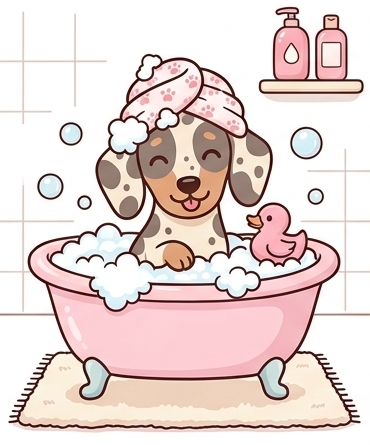
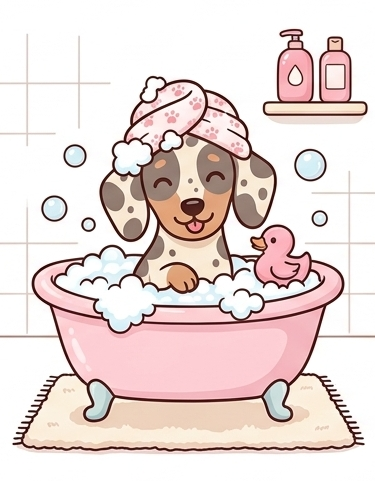
-FINALIZANDO CARDS

diff --git a/style.css b/style.css
@@ -120,18 +120,44 @@ footer {
 .img-dog {
     display: block;
     width: 60%;
+    max-width: 800px;
     height: 450px;
     object-fit: cover;
     margin: 80px auto 0 auto;
     border-radius: 15px;
 }
 
+.servicos{
+  padding: 10px 0 100px 0;
+}
+
+.h2-servicos{
+  font-weight: 500;
+}
+
+.preco{
+
+}
+
 .lista-servicos{
-    width: 240px;
+    width: 250px;
+    display: block;
+    text-decoration: none;
+    color: #1F2833;
+    border: 2px solid;
+    margin: 0 60px;
+    padding: 20px 0;
+    border-radius: 15px;
+    transition: box-shadow 0.2s, transform 0.2s;
+}
+
+.lista-servicos:hover{
+    box-shadow: 0 2px 5px rgb(190, 82, 127);
+    transform: translateY(-2px);
 }
 
 .img-card{
-   width: 100%;
+   width: 80%;
 }
 
 @media (max-width:768px) {
@@ -168,5 +194,16 @@ footer {
 
     .titulo {
         font-size: 30px;
+    }
+
+    .h2-servicos {
+        font-weight: 400;
+        font-size: 22px;
+    }
+
+    .lista-servicos {
+        width: 250px;
+        margin: 16px 10px;
+        padding: 16px 0;
     }
 }

diff --git a/servicos.html b/servicos.html
@@ -29,7 +29,7 @@
         <li><a target="_blank" href="compra.html" class="lista-servicos">
                 <h2 class="h2-servicos">Banho</h2>
                 <img src="img/tomandoBanho.jpeg" class="img-card">
-                <p class="preco">R$65,50</p>
+                <p class="preco">R$65,90</p>
             </a></li>
         <li><a target="_blank" href="compra.html" class="lista-servicos">
                 <h2 class="h2-servicos">Ração</h2>
@@ -39,7 +39,7 @@
         <li><a target="_blank" href="compra.html" class="lista-servicos">
                 <h2 class="h2-servicos">Vacina</h2>
                 <img src="img/tomandaVacina.jpeg" class="img-card">
-                <p class="preco">R$35,50</p>
+                <p class="preco">R$35,90</p>
             </a></li>
       </ul>
 

diff --git a/app.js b/app.js
@@ -4,3 +4,4 @@ async function imagemApi(){
     document.querySelector(".img-dog").src =dadosApi.message;
     console.log(dadosApi);
 }
+imagemApi();
